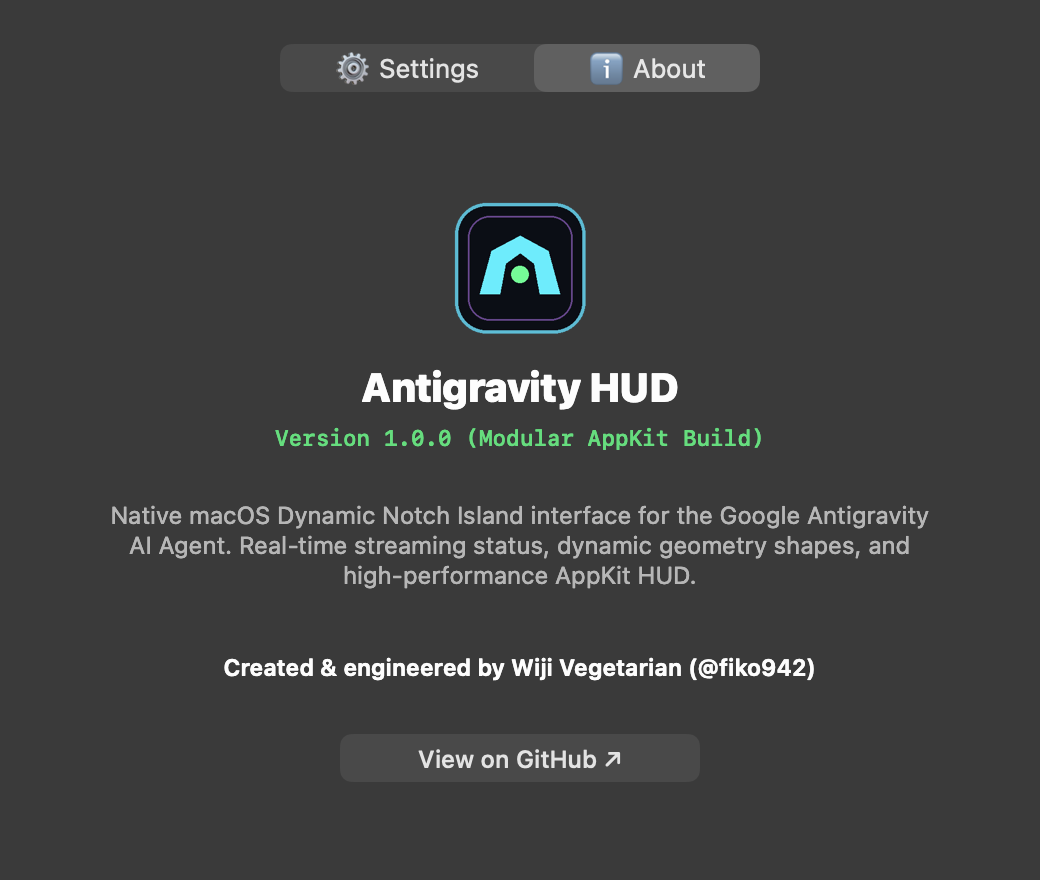
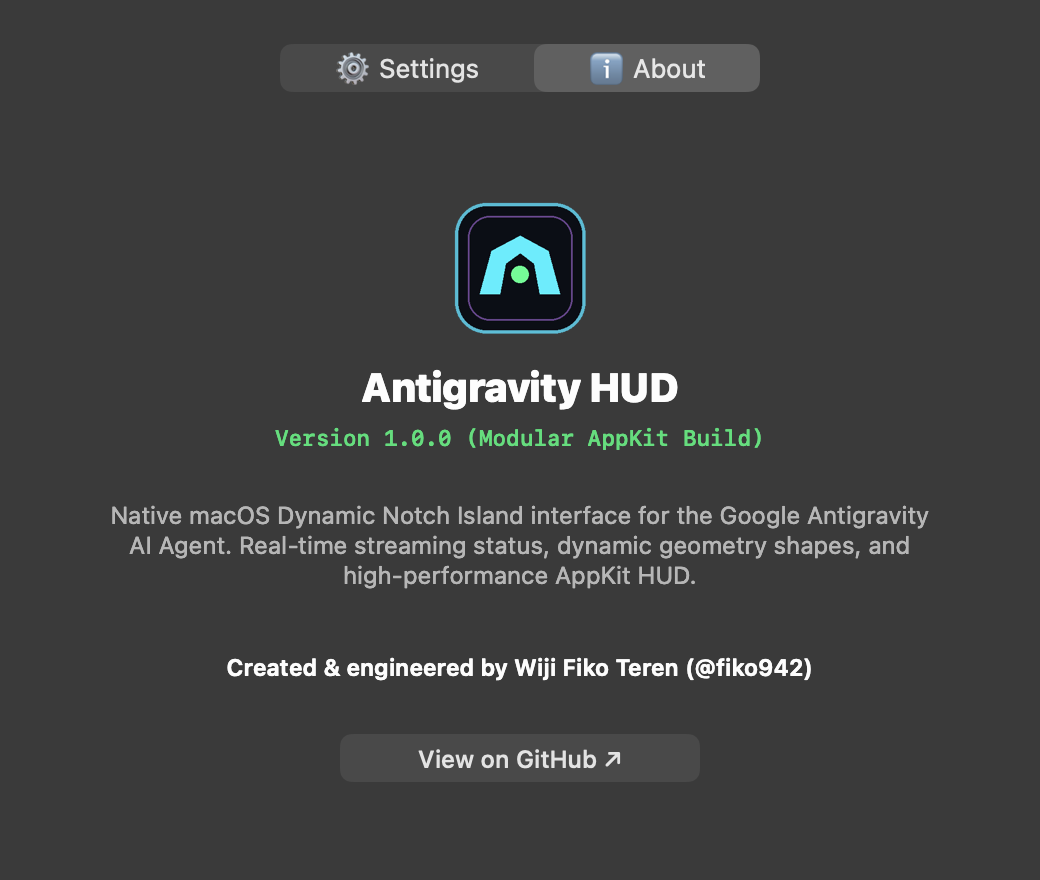
fix: correct author name to Wiji Fiko Teren throughout all metadata, UI, and docs

Changed region(s): [[0.2154, 0.7364, 0.8, 0.767]]

diff --git a/src/UI/SettingsWindowController.swift b/src/UI/SettingsWindowController.swift
@@ -177,7 +177,7 @@ public class SettingsWindowController: NSWindowController, NSWindowDelegate {
         aboutView.addSubview(descLabel)
 
         // Author credits
-        let authorLabel = NSTextField(labelWithString: "Created & engineered by Wiji Vegetarian (@fiko942)")
+        let authorLabel = NSTextField(labelWithString: "Created & engineered by Wiji Fiko Teren (@fiko942)")
         authorLabel.font = NSFont.systemFont(ofSize: 11.5, weight: .semibold)
         authorLabel.alignment = .center
         authorLabel.frame = NSRect(x: 0, y: 95, width: 520, height: 18)

diff --git a/README.md b/README.md
@@ -12,7 +12,7 @@
   <a href="https://github.com/fiko942/antigravity-hud/releases"><img src="https://img.shields.io/badge/Release-v1.0.0-00E0FF?style=flat-square&logo=apple" alt="Release" /></a>
   <a href="https://developer.apple.com/swift/"><img src="https://img.shields.io/badge/Language-Swift%206-FA7343?style=flat-square&logo=swift" alt="Swift" /></a>
   <a href="./LICENSE"><img src="https://img.shields.io/badge/License-MIT-34D399?style=flat-square" alt="License" /></a>
-  <a href="https://github.com/fiko942"><img src="https://img.shields.io/badge/Author-Wiji%20Vegetarian-A855F7?style=flat-square&logo=github" alt="Author" /></a>
+  <a href="https://github.com/fiko942"><img src="https://img.shields.io/badge/Author-Wiji%20Fiko%20Teren-A855F7?style=flat-square&logo=github" alt="Author" /></a>
 </p>
 
 ---
@@ -144,7 +144,7 @@ antigravity-hud/
 
 ## 👤 Author & Credits
 
-Created and engineered with ❤ by **[Wiji Vegetarian (Wiji Fiko Teren)](https://github.com/fiko942)** (`@fiko942`).
+Created and engineered with ❤ by **[Wiji Fiko Teren](https://github.com/fiko942)** (`@fiko942`).
 
 ---
 
